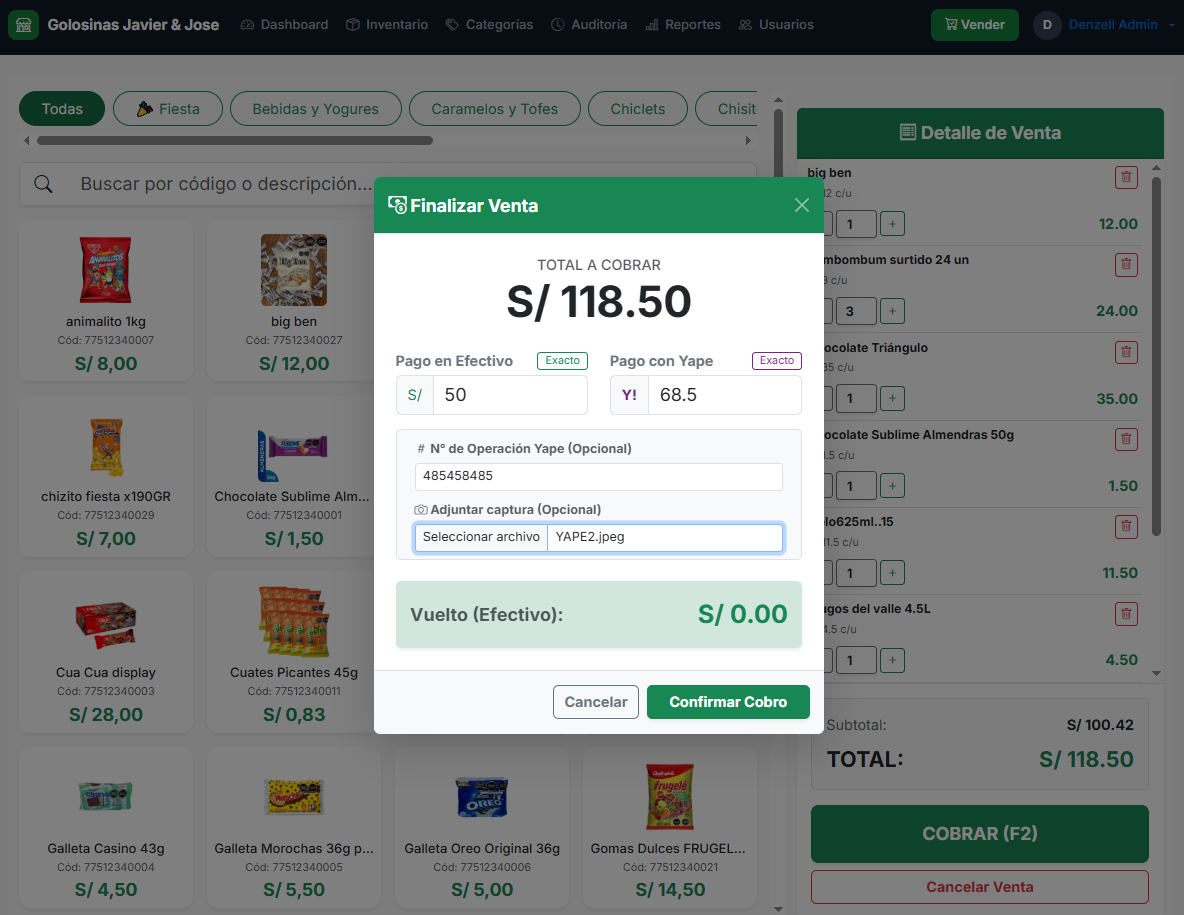
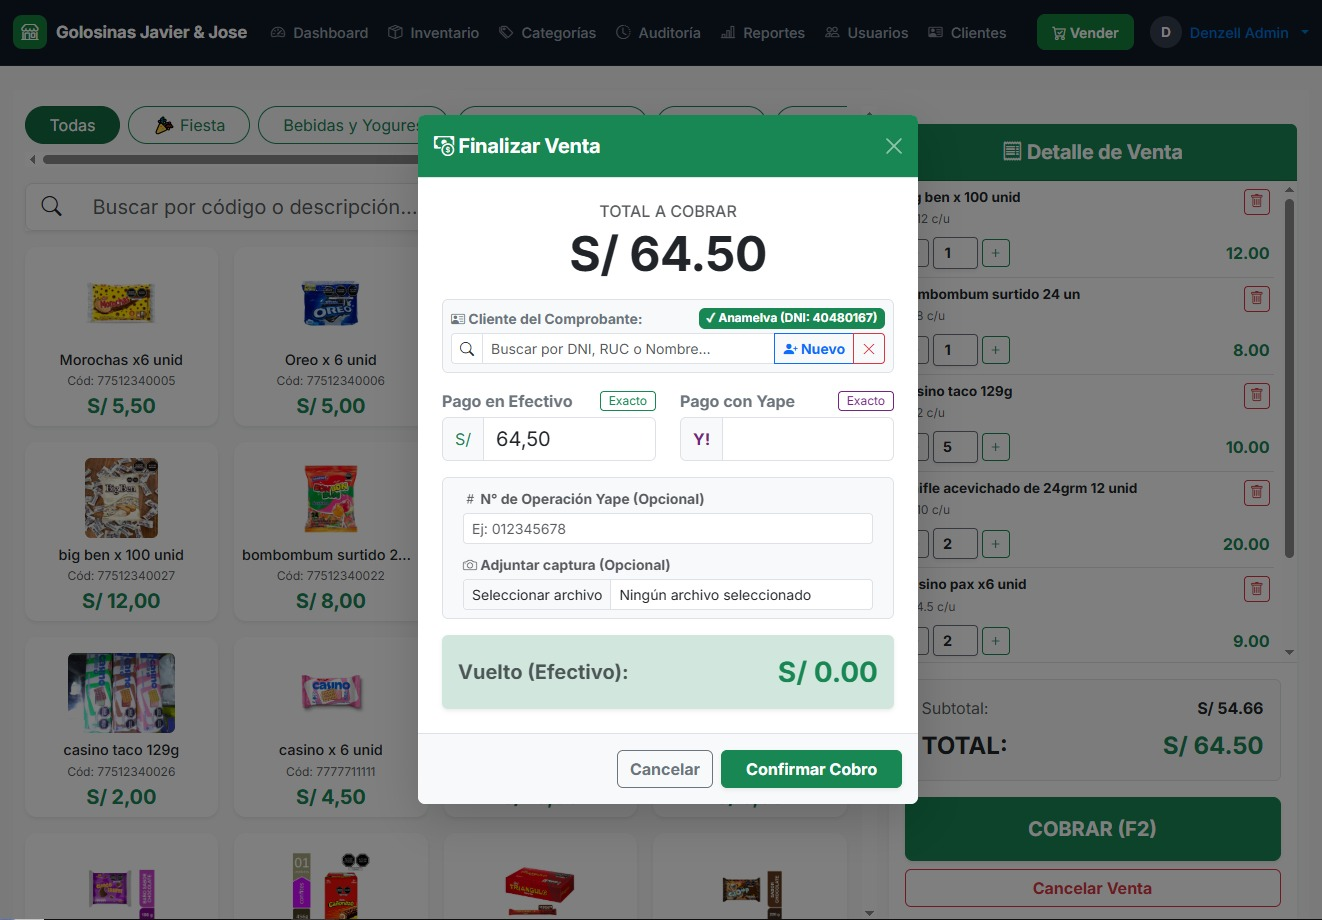
Actualizacion readme por modulo Cliente

diff --git a/README.md b/README.md
@@ -7,7 +7,7 @@
 ![Bootstrap 5](https://img.shields.io/badge/Bootstrap%205-7952B3?style=for-the-badge&logo=bootstrap&logoColor=white)
 ![Chart.js](https://img.shields.io/badge/Chart.js-FF6384?style=for-the-badge&logo=chartdotjs&logoColor=white)
 
-> **Propósito:** aplicación web *full-stack* para digitalizar la operación de un comercio minorista y mayorista de confitería y abarrotes. Agiliza el cobro en mostrador, cuadra la caja al céntimo, deja evidencia de los pagos por **Yape** y convierte las ventas en reportes útiles para decidir qué comprar y cuándo.
+> **Propósito:** aplicación web *full-stack* para digitalizar la operación de un comercio minorista y mayorista de confitería y abarrotes. Agiliza el cobro en mostrador, cuadra la caja al céntimo, deja evidencia de los pagos por **Yape**, gestiona la cartera de clientes y convierte las ventas en reportes útiles para decidir qué comprar y cuándo.
 
 ---
 
@@ -15,10 +15,10 @@
 
 | Dimensión | Detalle |
 | :--- | :--- |
-| **🎯 Problema** | Cobros manuales lentos, descuadres entre el efectivo de la gaveta y los ingresos por Yape, y poca visibilidad de qué productos y horarios generan más ventas. |
-| **💡 Solución** | POS con **cobro mixto (Efectivo + Yape)**, arqueo de caja por turno y paneles de **Business Intelligence**. |
+| **🎯 Problema** | Cobros manuales lentos, descuadres entre el efectivo de la gaveta y los ingresos por Yape, y poca visibilidad de qué productos, clientes y horarios generan más ventas. |
+| **💡 Solución** | POS con **cobro mixto (Efectivo + Yape)**, registro rápido de clientes en caja, arqueo por turno y paneles de **Business Intelligence**. |
 | **👨💻 Rol** | Diseño y desarrollo *end-to-end* en solitario: backend, modelo de datos y frontend. Primer proyecto full-stack con .NET. |
-| **🔍 Enfoque técnico** | Integridad transaccional, precisión contable, trazabilidad de pagos digitales y separación en capas. |
+| **🔍 Enfoque técnico** | Integridad transaccional, precisión contable, trazabilidad de pagos digitales, inmutabilidad histórica de tickets y separación en capas. |
 | **🚀 Estado** | ✅ Funcional de punta a punta y listo para su primer despliegue. Piloto programado en un negocio real. |
 
 ---
@@ -29,13 +29,13 @@
 
 | 🛒 Punto de Venta | 💳 Cobro Mixto | 🧾 Ticket Térmico |
 | :---: | :---: | :---: |
-| ![Punto de venta](docs/img/pos.png) | ![Cobro mixto](docs/img/cobro-mixto.png) | ![Ticket](docs/img/ticket.png) |
-| *Catálogo con búsqueda instantánea y carrito* | *Efectivo + Yape con cálculo de vuelto* | *Ticket de 80mm, marcado como control interno* |
+| ![Punto de venta](docs/img/pos.png) | ![Cobro mixto](docs/img/cobro-mixto.png) | ![Ticket](docs/img/ticket.jpg) |
+| *Catálogo con búsqueda instantánea y carrito* | *Efectivo + Yape y asignación rápida de cliente* | *Ticket de 80mm, marcado como control interno* |
 
 | 🔐 Arqueo de Caja | 📱 Evidencia Yape | 📊 Business Intelligence |
 | :---: | :---: | :---: |
 | ![Historial de arqueos](docs/img/historial-arqueo.png) | ![Voucher Yape](docs/img/voucher-yape.jpg) | ![Reportes](docs/img/reportes.png) |
-| *Cierre de turno con descuadre calculado* | *Visor de comprobante (datos sensibles difuminados)* | *KPIs, gráficos y ranking de productos* |
+| *Cierre de turno con descuadre calculado* | *Visor de comprobante (datos sensibles difuminados)* | *KPIs, gráficos, Top Productos y Top Clientes* |
 
 ---
 
@@ -44,7 +44,7 @@
 Cada decisión responde a un problema concreto de la operación de caja:
 
 * **🔸 Reto: mantener el código ordenado y fácil de probar.**
-  ➔ **Arquitectura en capas basada en servicios.** Los controladores solo manejan HTTP y seguridad. La lógica de negocio vive en servicios inyectados por interfaz (`IVentaService`, `ICajaService`, `IProductoService`, `ICategoriaService`, `IReporteService`, `IUsuarioService`, `IAuthService`). Ningún controlador accede directamente a `DbContext`.
+  ➔ **Arquitectura en capas basada en servicios.** Los controladores solo manejan HTTP y seguridad. La lógica de negocio vive en servicios inyectados por interfaz (`IVentaService`, `ICajaService`, `IProductoService`, `ICategoriaService`, `IClienteService`, `IReporteService`, `IUsuarioService`, `IAuthService`). Ningún controlador accede directamente a `DbContext`.
 
 * **🔸 Reto: evitar diferencias de céntimos entre el carrito (JS), la base de datos y el ticket impreso.**
   ➔ **Redondeo comercial unificado.**
@@ -55,11 +55,14 @@ Cada decisión responde a un problema concreto de la operación de caja:
 * **🔸 Reto: que ninguna venta quede a medias ante un error del servidor.**
   ➔ **Transacción atómica (`BeginTransactionAsync`).** El correlativo, la cabecera (`Venta`), el detalle (`VentaDetalle`) y el descuento de stock se confirman juntos. Si algo falla, se ejecuta `RollbackAsync()` y se elimina el archivo del comprobante Yape que ya se hubiera subido al servidor.
 
+* **🔸 Reto: vincular clientes para analítica sin perder velocidad en caja ni alterar tickets pasados.**
+  ➔ **Patrón *Snapshot* (Fotografía Histórica) + Clave Foránea Opcional (`IdCliente`).** Si es una venta rápida al paso, `IdCliente` queda en `null` y el ticket imprime `"Clientes varios"`. Si se asigna un cliente (DNI/RUC), se guarda su `IdCliente` para agrupar sus compras en el BI y se copian su documento y nombre en la cabecera de `Venta`, garantizando que los tickets antiguos sean inmutables aunque el cliente actualice su razón social en el futuro.
+
 * **🔸 Reto: cuadrar la gaveta sin que los pagos digitales distorsionen el efectivo.**
   ➔ **Fórmula de arqueo separada por medio de pago.** El efectivo esperado es `Fondo Inicial + Efectivo Neto de Ventas − Gastos Menores`; los ingresos por Yape se llevan aparte. Así se detectan sobrantes o faltantes reales al cerrar cada turno.
 
 * **🔸 Reto: conservar el historial para reportes y cierres pasados.**
-  ➔ **Borrado lógico (*soft delete*).** No se hace `DELETE` físico en `Productos`, `Categorias` ni `Usuarios`; se usa `Activo = false`, así las ventas antiguas siguen apuntando a datos válidos.
+  ➔ **Borrado lógico (*soft delete*).** No se hace `DELETE` físico en `Productos`, `Categorias`, `Clientes` ni `Usuarios`; se usa `Activo = false`, así las ventas antiguas siguen apuntando a datos válidos.
 
 * **🔸 Reto: evitar errores de coma/punto decimal entre PC (Windows) y tablets (Android/iOS).**
   ➔ **`InvariantCulture`.** Normalización de decimales entre vistas Razor, JavaScript y C#, independiente de la configuración regional del dispositivo.
@@ -70,9 +73,10 @@ Cada decisión responde a un problema concreto de la operación de caja:
 
 ### 🛒 1. Punto de Venta
 * **Búsqueda instantánea:** filtrado en el navegador (sin consultas al servidor) por descripción, código de barras, categoría y etiqueta de campaña (**🎉 Fiesta**).
+* **Asignación y registro rápido de clientes en cobro:** buscador AJAX por DNI, RUC o nombre y creación de clientes nuevos (con dirección opcional) directamente dentro del modal de cobro sin perder el carrito actual.
 * **Cobro mixto (Efectivo + Yape):** cálculo automático de vuelto y botones de monto exacto.
 * **Evidencia de pagos Yape:** registro del número de operación y foto del comprobante, con validación de formato y nombre auditable (`YAPE_yyyyMMddHHmmss_Operacion.jpg`).
-* **Impresión térmica:** ticket para impresoras de **80mm y 58mm** con reglas `@media print`.
+* **Impresión térmica:** ticket para impresoras de **80mm y 58mm** con reglas `@media print` (incluye datos del cliente o *"Clientes varios"* por defecto).
 
 ### 🔐 2. Turnos, Arqueo y Auditoría
 * **Ciclo del turno:** apertura con fondo inicial, registro de egresos menores de gaveta y cierre con cálculo automático del descuadre.
@@ -80,18 +84,23 @@ Cada decisión responde a un problema concreto de la operación de caja:
 
 ### 📊 3. Business Intelligence
 * **Dashboard operativo (`Home/Index`):** turno en vivo, comparativa Efectivo vs. Yape, cantidad de tickets y alerta de **stock crítico (`Stock <= 5`)**.
-* **Dashboard ejecutivo (`Reporte/Index`):** filtros por fecha, **flujo neto** (`Ventas Brutas − Gastos de Caja`), ticket promedio, participación por medio de pago, rendimiento de la línea **🎉 Fiesta** y **Top 10 de productos** con **Chart.js**.
+* **Dashboard ejecutivo (`Reporte/Index`):** filtros dinámicos por fecha (**Hoy**, **7 Días**, **Mes**, **Año** y rango libre), **flujo neto** (`Ventas Brutas − Gastos de Caja`), ticket promedio, participación por medio de pago, rendimiento de la línea **🎉 Fiesta**, **Top 10 de productos** con **Chart.js** y **Ranking Top 10 de Clientes Frecuentes (VIP)**.
 
-### 🛡 4. Seguridad por Roles (RBAC)
+### 👥 4. Directorio de Clientes
+* **Gestión de cartera (`Cliente/Index`):** registro y edición de personas naturales (DNI/CE) y bodegas/empresas (RUC) con teléfono y dirección.
+* **Métricas por cliente:** visualización automática del total de tickets comprados y el monto histórico acumulado en soles (`S/`).
+
+### 🛡 5. Seguridad por Roles (RBAC) y Cifrado
+* **Contraseñas seguras:** almacenamiento mediante hash criptográfico unidireccional (`PasswordHasher` con *Salt* aleatorio) y migración/semilla automática en `DbInicializador`.
 * **Sesión:** cookies encriptadas con expiración de **8 horas** (una jornada laboral).
-* **Administrador:** BI ejecutivo, auditoría histórica, catálogo, inventario y usuarios (con protección **anti-autobloqueo** de la cuenta propia).
-* **Cajero:** solo POS, su turno activo y reimpresión. Las rutas administrativas se bloquean en la interfaz y en el servidor con `[Authorize(Roles = "Administrador")]`.
+* **Administrador:** BI ejecutivo, auditoría histórica, catálogo, inventario, clientes y usuarios (con protección **anti-autobloqueo** de la cuenta propia).
+* **Cajero:** operación de caja, punto de venta, directorio de clientes y reimpresión del turno activo. Las rutas administrativas críticas se bloquean en la interfaz y en el servidor con `[Authorize(Roles = "Administrador")]`.
 
 ---
 
 ## ⚠ Alcance Actual
 
-* ✅ **Completado:** venta minorista y mayorista, cobro mixto con evidencia Yape, arqueo de caja, inventario, BI operativo y ejecutivo, seguridad por roles y reimpresión térmica.
+* ✅ **Completado:** venta minorista y mayorista, cobro mixto con evidencia Yape, directorio y registro rápido de clientes en POS, arqueo de caja, inventario, BI operativo y ejecutivo (productos, categorías y clientes VIP), seguridad con hash de contraseñas y reimpresión térmica.
 * ⚠ **Tickets internos:** el sistema emite tickets con serie y correlativo propios (`T001-000001`) y desglose de Operaciones Gravadas e IGV (18%). **No son comprobantes electrónicos válidos ante SUNAT.**
 * 🔜 **Facturación electrónica:** el modelo de datos y el cálculo de IGV están preparados para integrar un OSE/PSE en la siguiente iteración. La integración aún no está implementada.
 
@@ -130,7 +139,7 @@ dotnet run
 
 | Capa | Tecnologías |
 | :--- | :--- |
-| **Backend** | C#, ASP.NET Core MVC (.NET 10), inyección de dependencias |
+| **Backend** | C#, ASP.NET Core MVC (.NET 10), inyección de dependencias, PasswordHasher |
 | **Datos** | SQL Server, Entity Framework Core (Code-First, Migrations, LINQ, transacciones explícitas) |
 | **Frontend** | Razor Views, Bootstrap 5, Bootstrap Icons, JavaScript ES6 modular |
 | **Visualización** | Chart.js |
@@ -143,7 +152,7 @@ POS_DENZELL/
 ├── DTOs/          # DashboardBiDTO, ResumenCajaDTO, TicketVentaDTO
 ├── Data/          # ApplicationDbContext, Fluent API y precisión decimal en SQL
 ├── Views/         # Vistas Razor modulares e interfaz de impresión térmica
-└── wwwroot/       # Scripts JS, estilos y almacenamiento de evidencias Yape
+└── wwwroot/       # Scripts JS (puntoVenta, clientes, reportes, productos, usuario), estilos, almacenamiento de evidencias Yape y fotos de Productos
 ```
 
 ---
